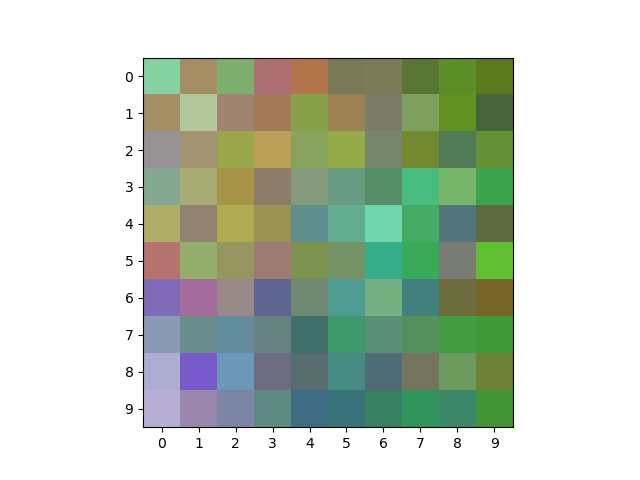
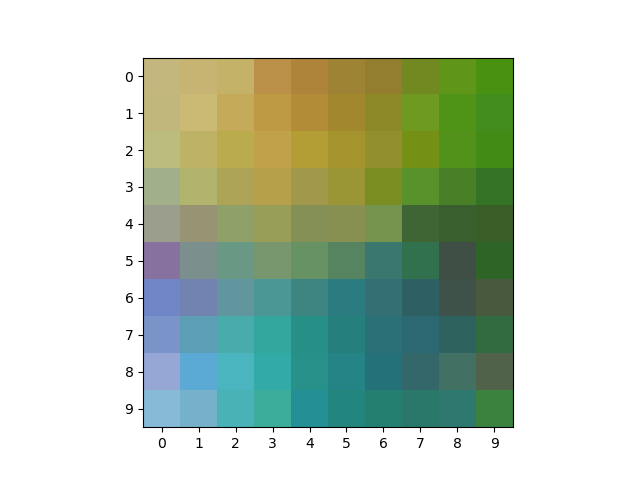
After 500 iters, 10x10 is similiar to provided image but sensitivit to rnd seed

diff --git a/train.py b/train.py
@@ -1,13 +1,13 @@
 import numpy as np
 import utils
+from test import test_grid
 
 
-def initialise_grid(grid_width, grid_height, node_weight_range):
+def initialise_grid(grid_width, grid_height):
     """Initialise the grid with random weight vectors
     Args:
         grid_width (int)
         grid_height (int)
-        node_weight_range (tuple of ints)
 
     Returns:
         grid (dict): keys are the coordinates (tuples) of the grid, values are weight vectors
@@ -17,7 +17,6 @@ def initialise_grid(grid_width, grid_height, node_weight_range):
     grid = dict()
     for node in all_nodes:
         grid[node] = np.random.random((1, 3))
-        # grid[node] = np.random.randint(node_weight_range[0], node_weight_range[1], 3)
     return grid
 
 
@@ -129,19 +128,19 @@ def train(radius, grid, max_iter, input_matrix, learning_rate, grid_width, grid_
 
 if __name__ == "__main__":
     # Set random seed
-    np.random.seed(42)
+    np.random.seed(10)
 
     # Initialise training params
     grid_width = 9  # zero-based indexing
     grid_height = 9  # zero-based indexing
-    node_weight_range = (0, 255)
-    max_iter = 100  # risky, if 0 then runtime error because radius is 0, and log(0) in update_lr
-    grid = initialise_grid(grid_width, grid_height, node_weight_range)
-    input_matrix = np.random.rand(20, 3)
-    initial_radius = max(grid_width, grid_height) / 2
+    max_iter = 500  # risky, if 0 then runtime error because radius is 0, and log(0) in update_lr
     learning_rate = 0.1
 
-    utils.plot_pixel_grid(grid, "initial_grid.png")
+    grid = initialise_grid(grid_width, grid_height)
+    input_matrix = np.random.rand(20, 3)
+    initial_radius = max(grid_width, grid_height) / 2
+
+    utils.plot_pixel_grid(grid, "plot_of_initial_grid.png")
 
     # Train
     trained_grid = train(
@@ -154,4 +153,4 @@ if __name__ == "__main__":
         grid_height,
     )
 
-    utils.plot_pixel_grid(trained_grid, "trained_grid.png")
+    utils.plot_pixel_grid(trained_grid, "plot_of_trained_grid.png")

diff --git a/test.py b/test.py
@@ -1,0 +1,17 @@
+import numpy as np
+
+# Given array
+test_grid = np.array(
+    [
+        [0.06623834, 0.41323115, 0.5055075],
+        [0.27841281, 0.35846549, 0.46476453],
+        [0.06462256, 0.63723597, 0.33711911],
+        [0.56441382, 0.09053535, 0.55779798],
+        [0.65837748, 0.95236121, 0.17537656],
+        [0.79862749, 0.81493842, 0.56016761],
+        [0.31951876, 0.67071923, 0.1332033],
+        [0.51785355, 0.93340037, 0.48103237],
+        [0.5538335, 0.35650457, 0.00457656],
+        [0.90240766, 0.95776868, 0.39686523],
+    ]
+)
